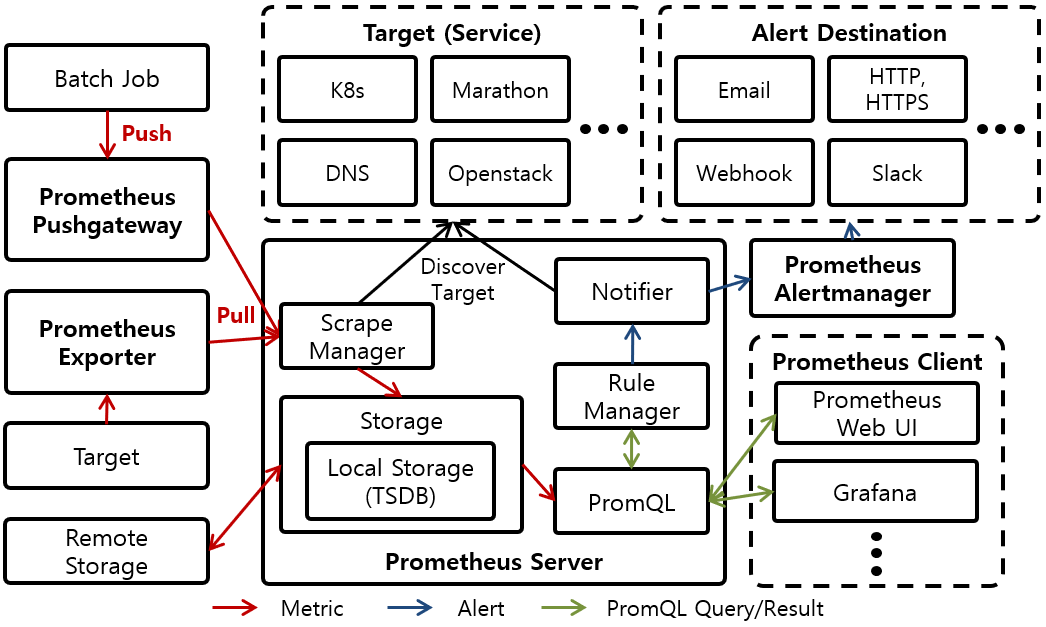
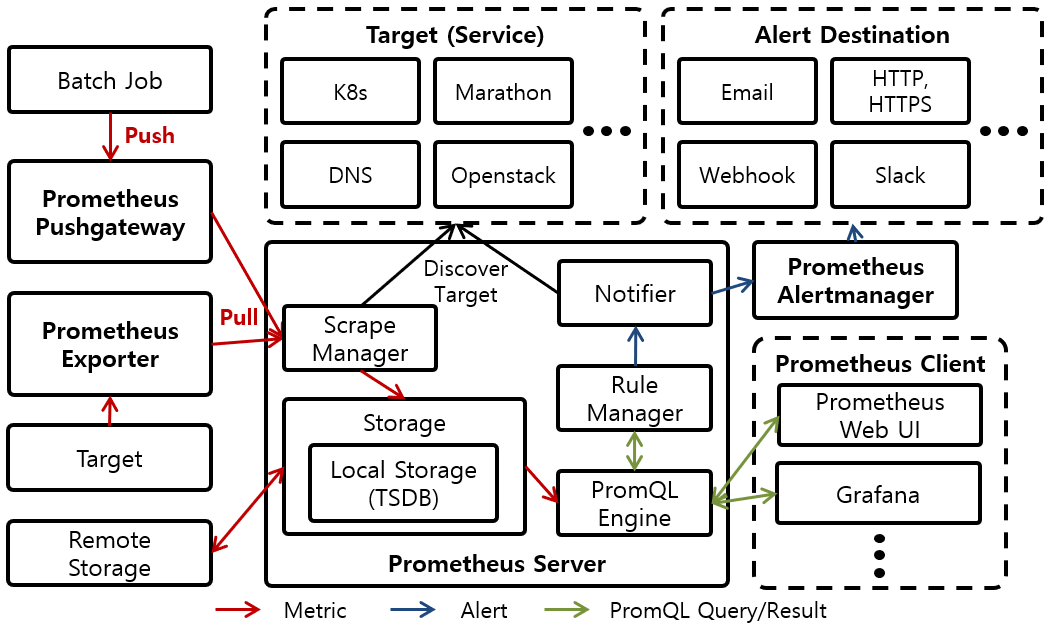
Update

Changed region(s): [[0.0, 0.0, 1.0, 1.0], [0.0, 0.0606, 0.2141, 0.4242], [0.2141, 0.9394, 0.2447, 1.0]]

diff --git a/_docs/theory_analysis/Prometheus_Architecture.md b/_docs/theory_analysis/Prometheus_Architecture.md
@@ -17,7 +17,11 @@ Prometheus의 Architecture를 분석한다.
 
 Exporter가 수집하고 Aggregate한 Metric정보는 Exporter에 의해서 먼져 Server에게 Push하는 방식이 아닌, Server에서 먼져 Exporter로부터 **Pull**하는 방식을 이용한다. 즉 모든 Metric 정보는 Exporter가 아닌 Server가 중심이 되어 수집된다. 이러한 Server 중심의 Metric 수집 방식은 Server 스스로 Metric 수집에 의한 부하를 조절할 수 있는 큰 장점을 갖게 된다. Exporter의 개수가 많아져 수집할 Metric의 양이 증가할 경우, Server가 각 Exporter의 Metric을 Pull하는 주기를 능동적으로 늘릴 수 있기 때문이다. 하지만 Pull 방식은 Event를 기록하기에는 적합한 방식은 아니다. Event가 발생하여 Exporter에 저장되어도 Server에 전달되는 시점은 Event와 관계없는 Server의 Metric 수집 주기에 의해서 결정되기 때문이다.
 
-Pushgateway는 의미 그대로 Server가 수행하지 못하는 Push 방식으로 Metric 정보를 수집하여 Server에게 전달하는 역활을 수행한다. Batch Job과 같이 Short-lived Job의 Metric 정보의 경우 별도의 Exporter를 짧게 구동하여 해당 Metric을 수집하는 방법 보다는 Pushgateway를 통해서 수집하는 방법이 더욱 효율적이다. Exporter 또는 Pushgateway로 부터 Metric Pull 수행은 Server의 Scrape Manager에 의해서 진행된다. Scrap Manager는 수집한 Metric을 Local/Remote Storage에 저장한다. 또한 Scrap Manager는 Metric을 수집해야할 Target (Service)의 변경 내용을 발견하고, 필요에 따라서 Notifier에게 변경된 Target의 정보도 전달하는 역활도 수행한다. Target 정보는 K8s, Marathon, OpenStack, DNS 같은 특정 Platform 또는 Server로 부터 얻어온다.
+Pushgateway는 의미 그대로 Server가 수행하지 못하는 Push 방식으로 Metric 정보를 수집하여 Server에게 전달하는 역활을 수행한다. Batch Job과 같이 Short-lived Job의 Metric 정보의 경우 별도의 Exporter를 짧게 구동하여 해당 Metric을 수집하는 방법 보다는 Pushgateway를 통해서 수집하는 방법이 더욱 효율적이다. Exporter 또는 Pushgateway로 부터 Metric Pull 수행은 Server의 Scrape Manager에 의해서 진행된다. Scrap Manager는 수집한 Metric을 Storage에 저장한다. 또한 Scrap Manager는 Metric을 수집해야할 Target (Service)의 변경 내용을 발견하고, 필요에 따라서 Notifier에게 변경된 Target의 정보도 전달하는 역활도 수행한다. Target 정보는 K8s, Marathon, OpenStack, DNS 같은 특정 Platform 또는 Server로 부터 얻어온다.
+
+Storage는 기본적으로 TSDB (Time Serise Data Base) 역활을 수행하는 Local Storage를 이용하며 추가적으로 외부에 있는 Remote Storage를 이용할 수 있다. 현재는 Remote Storage에서도 Metric 정보를 읽어올수 있지만 추후에 Remote Storage에는 Metric Write 동작만 허용하도록 변경될 예정이다. PromQL Engine은 Storage에 저장된 Metric 정보를 바탕으로 PromQL Query를 처리를 수행하는 역활을 수행한다. Grafana와 같은 Client는 PromQL Query를 통해서 원하는 Metric 정보를 얻는다.
+
+Rule Manager는 Prometheus 사용자가 지정한 Alert Rule을 관리하고, PromQL Engine에게 PromQL Query를 통해서 설정한 Alret Rule의 조건이 충족되었는지 주기적으로 확인한다. 만약 Alret Rule의 조건이 충족되었다면 Rule Manager는 해당 Alret을 Notifier를 통해서 Alertmanager에게 전달한다. Notifier는 Rule Manager의 Alret뿐만 아니라 Target의 변경 내용을 발견하고 해당 변경 내용을 Alert으로 Alertmanager에게 전달하는 기능도 수행한다. Alertmanager는 Notifier로부터 전달 받은 Alret을 Alretmanager에 설정된 Alret 목적지 정보에 따라 전달한다. Alret 목적지로는 Email, HTTP/HTTPS, Webhook, Slack의 방법 등을 지원하고 있다.
 
 ### 2. 참조
 
